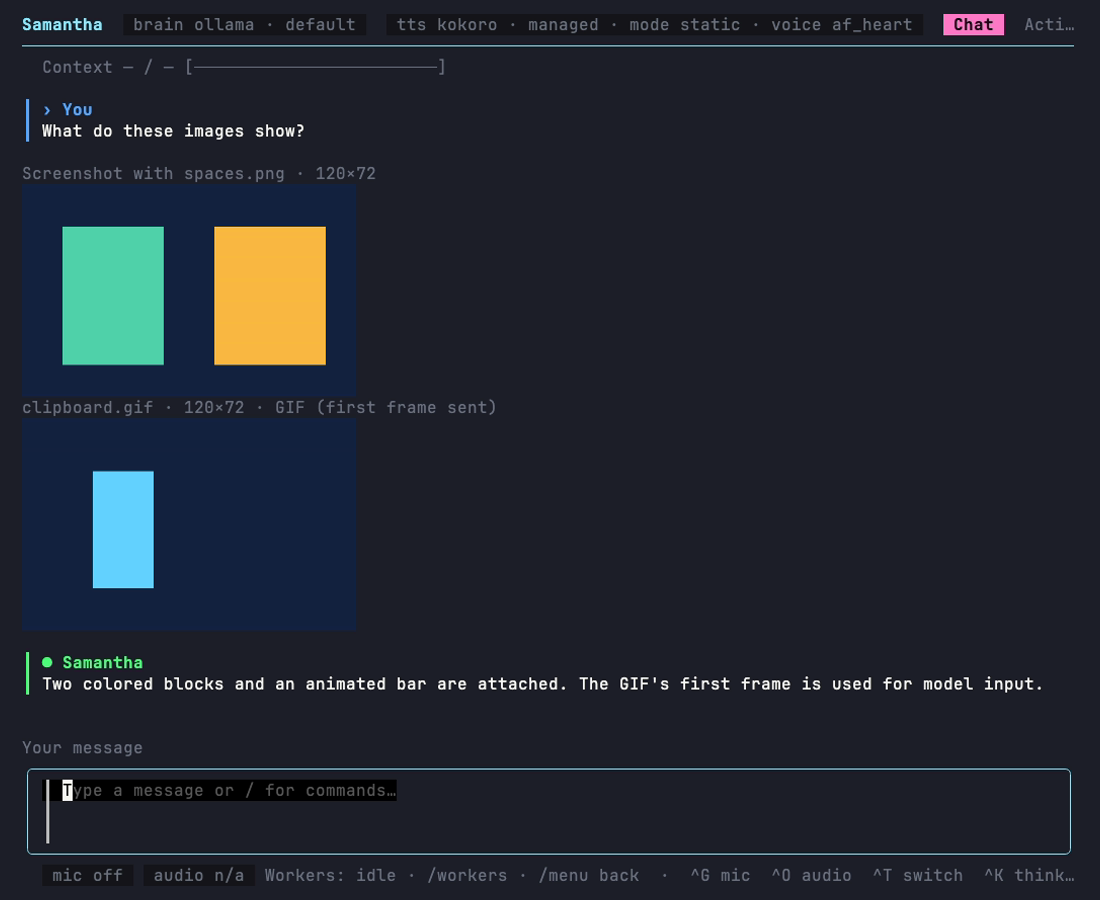
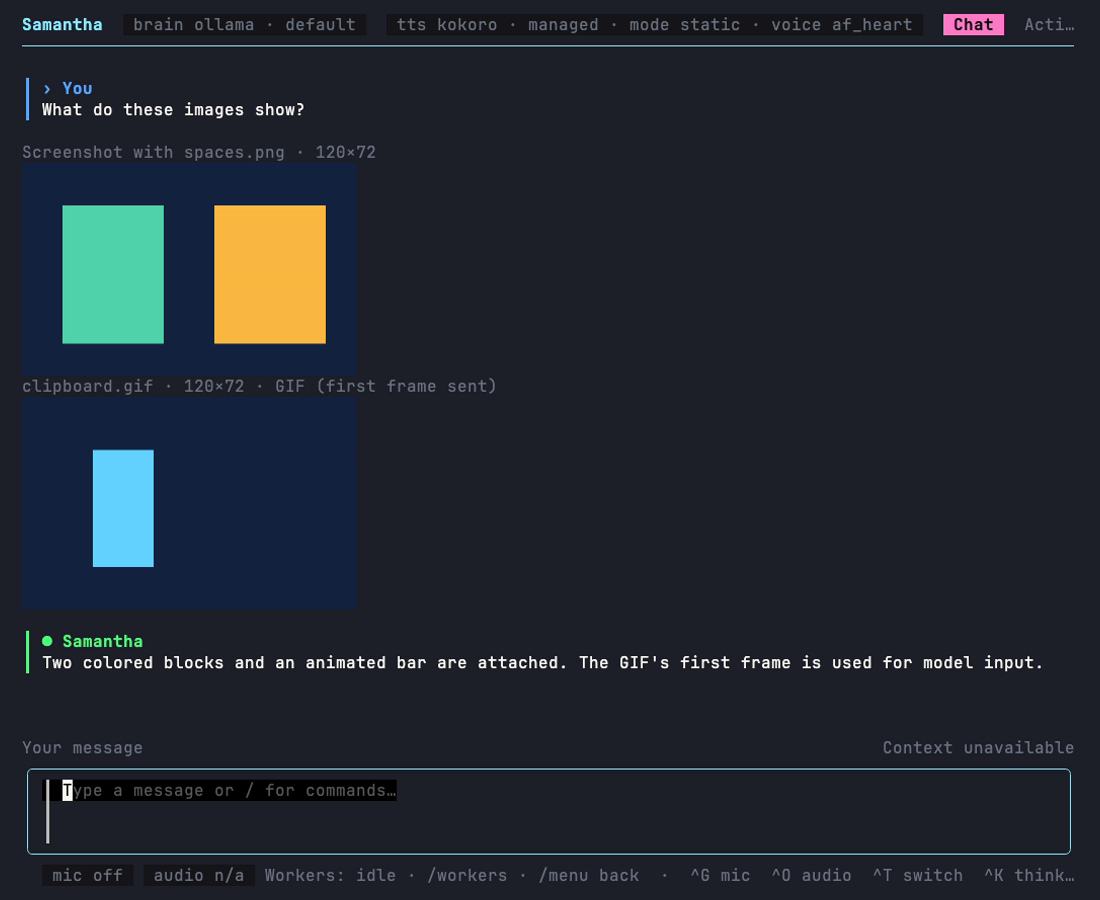
[mytools:8a57dff6-WI-818e3e] Keep desktop image drafts clear of the composer and refresh review recording

diff --git a/apps/desktop/src/screens/chat.rs b/apps/desktop/src/screens/chat.rs
@@ -118,9 +118,9 @@ impl VoiceApp {
             - if self.state.attachments.is_empty() {
                 0.
             } else {
-                125.
+                self.media.draft_height.clamp(125., 180.) + 12.
             })
-        .max(100.);
+        .max(24.);
         egui::ScrollArea::vertical()
             .id_salt(if self.activity { "activity" } else { "chat" })
             .stick_to_bottom(true)
@@ -237,7 +237,16 @@ impl VoiceApp {
             });
         }
         let attachments = self.state.attachments.clone();
-        let removed = self.media.show(ui, &attachments, true);
+        let removed = if attachments.is_empty() {
+            Vec::new()
+        } else {
+            egui::ScrollArea::vertical()
+                .id_salt("draft-images")
+                .max_height(180.)
+                .auto_shrink([false, true])
+                .show(ui, |ui| self.media.show(ui, &attachments, true))
+                .inner
+        };
         for id in removed {
             self.action("attachment_remove", &id, false);
         }

diff --git a/apps/desktop/src/app/media_view.rs b/apps/desktop/src/app/media_view.rs
@@ -7,7 +7,7 @@ use std::time::Duration;
 impl Media {
     pub fn show(&mut self, ui: &mut egui::Ui, refs: &[Attachment], draft: bool) -> Vec<String> {
         let mut removed = Vec::new();
-        ui.horizontal_wrapped(|ui| {
+        let response = ui.horizontal_wrapped(|ui| {
             for attachment in refs {
                 if !self.cache.contains_key(&attachment.id) && self.jobs < 4 {
                     // Older turns keep an explicit reload action instead of thrashing
@@ -106,6 +106,13 @@ impl Media {
                 });
             }
         });
+        if draft {
+            let height = response.response.rect.height();
+            if (self.draft_height - height).abs() > 1. {
+                ui.ctx().request_repaint();
+            }
+            self.draft_height = height;
+        }
         removed
     }
 }

diff --git a/apps/desktop/src/app/media.rs b/apps/desktop/src/app/media.rs
@@ -29,6 +29,7 @@ pub(super) struct Cached {
 }
 pub struct Media {
     pub submitted: Option<String>,
+    pub draft_height: f32,
     pub paused: bool,
     pub(super) cache: HashMap<String, Cached>,
     pub(super) tx: mpsc::Sender<(String, Loaded)>,
@@ -42,6 +43,7 @@ impl Default for Media {
         let (tx, rx) = mpsc::channel();
         Self {
             submitted: None,
+            draft_height: 0.,
             paused: false,
             cache: HashMap::new(),
             tx,

diff --git a/demos/README.md b/demos/README.md
@@ -1,5 +1,17 @@
 # Demos
 
+## chat-images.gif — image and GIF attachments
+
+`just demo-chat-images` records image-path paste, bitmap import, removable draft
+previews, GIF pause/play, sending two images, and thread scrolling in the real
+Bubble Tea conversation UI. Its test provider and images are deterministic;
+no microphone, audio, personal config, or external model is used.
+
+![Chat image attachments](chat-images.gif)
+
+See [chat images](../docs/chat-images.md) for controls, limits, and the isolated
+native desktop fixture. The reproducible source is `chat-images.tape`.
+
 ## context-meter.gif — live usage beside the composer
 
 `just demo-context-meter` records the real Bubble Tea app against a slow loopback
